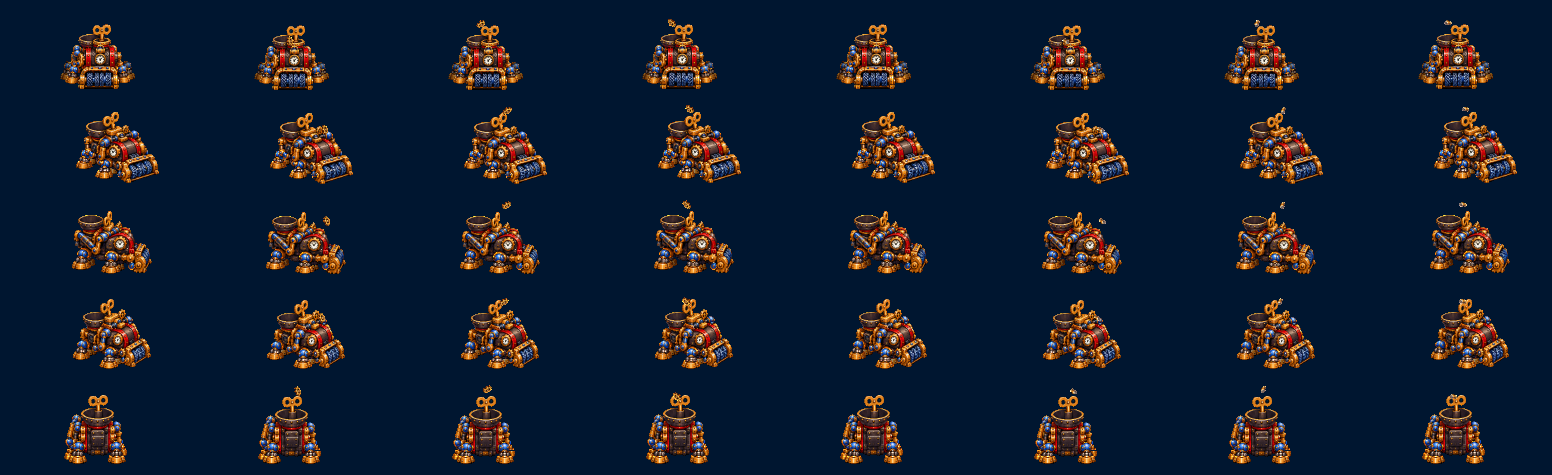
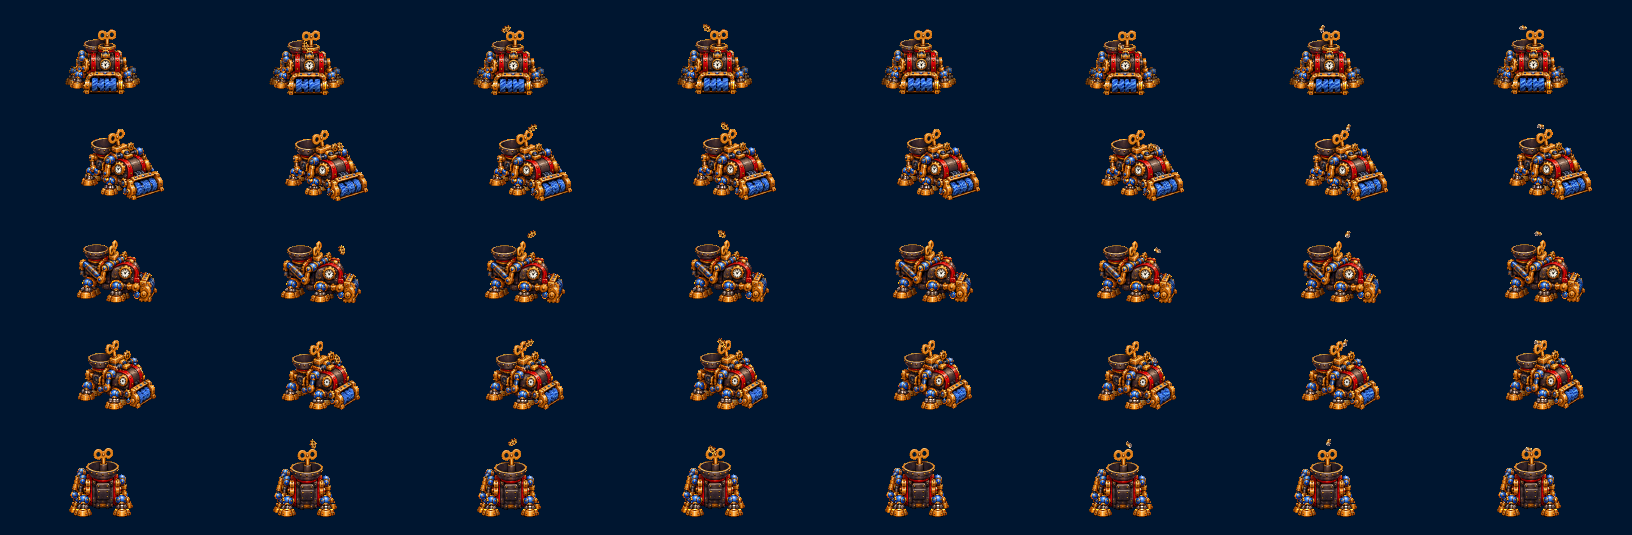
Art: Great Winder WIND turns ChatGPT's painted key, SWEEP scrolls the new roller band and turns the painted end cap
Claude-Session: https://claude.ai/code/session_01NtmEZhP1uA8k4DLQ7BYfMz

diff --git a/tools/great_winder_guide/anim.py b/tools/great_winder_guide/anim.py
@@ -13,13 +13,13 @@ the alternation; the front view gets the middle legs the same way (outside and b
 dips 1 game px as each tripod lands.
 
 WIND (12 frames): the winding arm (cut from column 2 and laid on the column-1 body) slides out of the machine along its
-length (frames 1-3), then the key at its end turns about the arm (frames 3-8: a full turn, 60 deg a frame; seen from
-the side the key's bow narrows to its edge and opens again flipped, seen end-on (S, N) it spins round), then the arm
-slides back in (9-11). Frames 3-8 loop while it winds. N: ChatGPT drew the arm where the big key on top stands, so
+length (frames 0-2), then ChatGPT's painted key head at its end (art/redraws/great_winder_key_rollers_chatgpt.png, top)
+turns about the arm in 8 painted steps of 45 deg (frames 2-9: face-on, 45, edge-on, ... back face), its shaft along
+the arm, then the arm slides back in (10-11). Frames 2-9 loop while it winds. N: ChatGPT drew the arm where the big key on top stands, so
 there it comes out a little to the left of the big key (the S view shows it reaching to the machine's left).
 
-SWEEP (8 frames): the brush rollers turn (the bristle stripes run up round the roller: S and the 3/4 views scroll them
-across the roller, E turns the end-on roller in place); the machine shakes a little. N: the brushes are hidden behind
+SWEEP (8 frames): the brush rollers turn (S and the 3/4 views: each blade shows ChatGPT's new roller band, its stripes
+scrolling up the front; E: the end-on bristles turn in place under the roller's painted end cap, which turns too); the machine shakes a little. N: the brushes are hidden behind
 the machine; it shakes and a few painted scraps (from the concept) are tossed up over it into the hopper.
 
 Out (GAME SCALE, GS game px per sheet px; one cell and anchor for all three, the anchor = the ground under the body):
@@ -36,7 +36,7 @@ SHEET = np.array(Image.open('art/redraws/great_winder_dirs.png').convert('RGB'))
 CONCEPT = np.array(Image.open('art/redraws/concepts/great_winder_v1a.png').convert('RGB')).astype(int)
 GS = 0.30             # game px per sheet px (the Netter is 0.238, the Pendulum 0.283: a big machine)
 DIRS = ['s', 'se', 'e', 'ne', 'n']
-MARGIN = (40, 60, 220, 14)   # render window round the unit's box: left, top, right, bottom (sheet px; the arm reaches)
+MARGIN = (40, 60, 220, 40)   # render window round the unit's box: left, top, right, bottom (sheet px; the arm and its key reach)
 N_WALK = 8
 STEP = 13.0           # a foot travels +-STEP px forward/back of its rest (side view px)
 LIFT = 14.0           # how high a swinging foot lifts
@@ -248,6 +248,80 @@ ARM = [
 ]
 
 
+# ------------------------------------------------------------------ the painted key (WIND)
+
+KEYS_SHEET = np.array(Image.open('art/redraws/great_winder_key_rollers_chatgpt.png').convert('RGB')).astype(int)
+# ChatGPT's key sheet, top: the arm-tip key at four turns (columns: face-on, 45 deg, edge-on, back face; the five rows
+# barely differ, row 1 is used). Only the key's head is taken: the bow and its neck down to the collar over the first
+# blue ball (the arm has its own shaft and balls). Per column: the box (sheet px); the neck's bottom (the anchor) is
+# found on its middle at row KEY_NECK
+KEY_COLS = [(132, 26, 228, 93), (360, 26, 438, 93), (604, 26, 648, 93), (795, 26, 886, 93)]
+KEY_NECK = 92          # the key's neck meets the collar here (sheet px)
+KEY_BOW_W = 62.0       # the bow, face-on, this wide on the machine (sheet px; ChatGPT's is 83): ~19 game px, it reads
+KEY_SINK = 4.0         # the key's neck starts this far back inside the arm's tip (sheet px)
+KEY_TURN = 45.0        # deg a frame while it winds: 8 frames a turn
+# the turn's 8 steps (0, 45 ... 315 deg) -> (column, mirrored about the shaft): face-on, 45, edge-on, 45 seen from the
+# other side, the back face, then the same again (a bow is the same shape after half a turn)
+KEY_STEPS = [(0, False), (1, False), (2, False), (1, True), (3, False), (1, False), (2, False), (1, True)]
+
+
+def key_heads():
+    out = []
+    k = KEY_BOW_W / float(KEY_COLS[0][2] - KEY_COLS[0][0] - 13)
+    for x0, y0, x1, y1 in KEY_COLS:
+        C = KEYS_SHEET[y0:y1, x0:x1]
+        m = solid(C)
+        lab, n = ndi.label(m)
+        if n > 1:
+            sz = ndi.sum(m, lab, range(1, n + 1))
+            m &= lab == int(np.argmax(sz)) + 1
+        xs = np.nonzero(m[KEY_NECK - y0 - 6])[0]
+        ax = (xs.min() + xs.max()) / 2.0
+        im = Image.fromarray(rgba(C, m), 'RGBA')
+        w, h = max(2, int(round(im.width * k))), max(2, int(round(im.height * k)))
+        a = np.array(im.resize((w, h), Image.LANCZOS))
+        a[..., 3] = np.where(a[..., 3] >= 128, 255, 0)
+        a[a[..., 3] == 0] = 0
+        out.append((a, np.array([ax * k, (KEY_NECK - y0) * k])))
+    return out
+
+
+KEY_HEADS = key_heads()
+
+
+def key_step(i):
+    """the key head at turn step i (of 8): (rgba, anchor = the neck's bottom middle); a mirrored step is re-lit with
+    the painting's big light (the blurred brightness ratio), so its light still comes from the top left"""
+    col, mir = KEY_STEPS[i % 8]
+    a, anc = KEY_HEADS[col]
+    if not mir:
+        return a, anc
+    b = a[:, ::-1].copy()
+    m = b[..., 3] > 0
+    lum = lambda x: (x[..., 0] * 0.3 + x[..., 1] * 0.59 + x[..., 2] * 0.11) * m
+    sig = 4.0
+    k = ndi.gaussian_filter(lum(a.astype(float)), sig) / np.maximum(ndi.gaussian_filter(lum(b.astype(float)), sig), 1.0)
+    b[..., :3] = np.clip(b[..., :3] * np.clip(k, 0.7, 1.4)[..., None], 0, 255).astype(np.uint8)
+    b[~m] = 0
+    return b, np.array([a.shape[1] - 1 - anc[0], anc[1]])
+
+
+def key_layer(size, tip, a, i):
+    """the key head at step i laid at the arm's tip, its shaft along the arm (a: root -> tip on screen): turned in the
+    picture plane (rotated paint, NEAREST) so the neck comes out of the tip and the bow stands beyond it"""
+    Wd, H = size
+    img, anc = key_step(i)
+    ang = math.degrees(math.atan2(a[0], -a[1]))           # from 'up' (the paint's shaft) to a, clockwise on screen
+    im = Image.fromarray(img, 'RGBA')
+    pad = int(max(im.size)) + 4
+    big = Image.new('RGBA', (2 * pad, 2 * pad), (0, 0, 0, 0))
+    big.paste(im, (int(round(pad - anc[0])), int(round(pad - anc[1]))), im)
+    big = big.rotate(-ang, resample=Image.NEAREST, center=(pad, pad))
+    out = np.zeros((H, Wd, 4), np.uint8)
+    _paste(out, np.array(big), int(round(tip[0] - pad)), int(round(tip[1] - pad)))
+    return out
+
+
 def seg_dist(xx, yy, a, b):
     vx, vy = b[0] - a[0], b[1] - a[1]
     t = np.clip(((xx - a[0]) * vx + (yy - a[1]) * vy) / float(vx * vx + vy * vy), 0, 1)
@@ -371,6 +445,8 @@ def cut_brush(r, W, M, org):
         # end-on: a disc turning about its middle
         cx, cy = BRUSH[r][2][0] - x0, BRUSH[r][2][1] - y0
         out.update(cx=cx, cy=cy)
+        ys_, xs_ = np.nonzero(bristle)
+        out['R'] = float(np.percentile(np.hypot(xs_ - cx, ys_ - cy), 95))
         # the tufts' angular period round the disc (at two thirds of the radius)
         ys, xs = np.nonzero(bristle)
         ang = np.degrees(np.arctan2(ys - cy, xs - cx))
@@ -388,6 +464,96 @@ def cut_brush(r, W, M, org):
             if c > best[0]:
                 best = (c, float(P))
         out['pitch'] = best[1]
+    return out
+
+
+# the new rollers (ChatGPT's key sheet, bottom: art/redraws/great_winder_key_rollers_chatgpt.png). TREAD_TEX: the side
+# view's bristle band (row 1, column 1), the inside of its blue band (sheet px); each roller blade on the machine
+# (a run of bristles: S and the 3/4 views) gets the band once across its width and scrolls it up its front. CAP: the
+# end-on view (row 1, column 3): the roller's end cap, turned in place over the middle of E's end-on roller
+TREAD_TEX = (154, 926, 177, 980)
+TEX_ZOOM = 3.0         # the band 3x (ChatGPT's stripes are ~5.5 px apart, like the old ones: at 1x they blur to a flat blue)
+TEX_P = 5.5            # its stripes' period down the band (measured: autocorrelation)
+TEX_SPIN = 2.0         # stripes scrolled per 8-frame loop
+CAP_BOX = (588, 909, 670, 1001)
+CAP_K = 0.62           # the cap's radius, of the end-on roller's (the bristles stick out round it)
+CAP_TURN = 90.0        # deg per loop (two of its eight lugs)
+
+
+def roller_pieces():
+    S_ = np.array(Image.open('art/redraws/great_winder_key_rollers_chatgpt.png').convert('RGB')).astype(int)
+    x0, y0, x1, y1 = TREAD_TEX
+    tex = S_[y0:y1, x0:x1].astype(float)
+    x0, y0, x1, y1 = CAP_BOX
+    C = S_[y0:y1, x0:x1]
+    m = solid(C)
+    r_, g_, b_ = C[..., 0], C[..., 1], C[..., 2]
+    blue = m & (b_ > r_ + 40) & (b_ > 100)
+    ys, xs = np.nonzero(blue)
+    cx, cy = xs.mean(), ys.mean()
+    yy, xx = np.mgrid[0:C.shape[0], 0:C.shape[1]]
+    rr = np.hypot(xx - cx, yy - cy)
+    # the cap's own radius: its lugs' tips (the stub over the top, a tuft, is left out)
+    R = float(np.percentile(rr[m], 93))
+    m &= rr <= R
+    return tex, dict(img=rgba(C, m), c=(cx, cy), R=R, hub=blue)
+
+
+TEX, CAP = roller_pieces()
+
+
+def tread_texture(b, i, n):
+    """the bristle runs (S, 3/4 views) painted with TEX: each blade (a connected run of bristles) gets the band once
+    across its width; down a column the band's rows follow the run and scroll up by TEX_SPIN stripes a loop (wrapped
+    a whole number of stripes, so it never jumps); re-lit with the painting's big light (the blade's old brightness
+    over the band's mean)"""
+    m = b['mask']
+    H, Wd = m.shape
+    out = np.zeros((H, Wd, 4), np.uint8)
+    th, tw = TEX.shape[:2]
+    Hw = math.floor((th - 1) / TEX_P) * TEX_P
+    shift = TEX_SPIN * TEX_P * i / float(n)
+    lab, nb = ndi.label(m)
+    tmean = (TEX @ np.array([0.3, 0.59, 0.11])).mean()
+    for k in range(1, nb + 1):
+        ys, xs = np.nonzero(lab == k)
+        if len(ys) < 20:
+            continue
+        x0, x1 = xs.min(), xs.max()
+        for x in np.unique(xs):
+            col = ys[xs == x]
+            col.sort()
+            for run in np.split(col, np.nonzero(np.diff(col) > 1)[0] + 1):
+                L = run[-1] - run[0] + 1
+                ty = ((run - run[0]) * (Hw / max(L, 1)) / TEX_ZOOM + shift) % Hw
+                tx = (x - x0) / max(1.0, x1 - x0) * (tw - 1)
+                rgb = np.stack([ndi.map_coordinates(TEX[..., c], [ty, np.full(len(ty), tx)], order=1)
+                                for c in range(3)], -1)
+                lk = np.clip(b['light'][run, x] / tmean, 0.5, 1.6)
+                out[run, x, :3] = np.clip(rgb * lk[:, None], 0, 255).astype(np.uint8)
+                out[run, x, 3] = 255
+    return out
+
+
+def cap_layer(b, i, n, size):
+    """E: the roller's painted end cap turned in place (CAP_TURN a loop) over the middle of the end-on roller, its hub
+    ball still; only where the roller shows (inside its bristles' outline)"""
+    Wd, H = size
+    R = CAP_K * b['R']
+    k = R / CAP['R']
+    img = Image.fromarray(CAP['img'], 'RGBA')
+    big = img.resize((max(2, int(round(img.width * k))), max(2, int(round(img.height * k)))), Image.LANCZOS)
+    c = (CAP['c'][0] * k, CAP['c'][1] * k)
+    turned = big.rotate(-CAP_TURN * i / float(n), resample=Image.BICUBIC, center=c)
+    a = np.array(turned)
+    still = np.array(big)
+    hub = np.hypot(*(np.mgrid[0:a.shape[0], 0:a.shape[1]][::-1] - np.array(c)[:, None, None])) <= 0.36 * R
+    a[hub] = still[hub]
+    a[..., 3] = np.where(a[..., 3] >= 128, 255, 0)
+    a[a[..., 3] == 0] = 0
+    out = np.zeros((H, Wd, 4), np.uint8)
+    _paste(out, a, int(round(b['cx'] - c[0])), int(round(b['cy'] - c[1])))
+    out[~ndi.binary_dilation(b['mask'], iterations=2)] = 0
     return out
 
 
@@ -537,8 +703,8 @@ def legs_groups(r, q, stand=False):
     return far, near
 
 
-def arm_layers(r, t, phi):
-    """the arm out by t (0 in, 1 all out), its key's bow turned phi deg about the arm"""
+def arm_layers(r, t, step):
+    """the arm out by t (0 in, 1 all out), with ChatGPT's painted key at its tip at turn step `step` (of 8)"""
     P = PARTS[r]
     root, tip = P['root'], P['tip']
     L = float(np.hypot(*(tip - root)))
@@ -546,25 +712,8 @@ def arm_layers(r, t, phi):
     back = -(1.0 - t) * (L + 30.0) * a
     H, Wd = P['arm'].shape[:2]
     yy, xx = np.mgrid[0:H, 0:Wd]
-    arm = shift(P['arm'], *back)
-    bow = P['bow']
-    ph = math.radians(phi)
-    if ARM[r]['front'] or r == 4:
-        # seen end-on (S, N): the bow spins round the shaft's end
-        c, s_ = math.cos(ph), math.sin(ph)
-        bow = place(bow, tip, tip, np.array([[c, -s_], [s_, c]]))
-    else:
-        # seen from the side: the bow narrows to its edge and opens again, flipped
-        n = np.array([-a[1], a[0]])
-        Mb = np.eye(2) + (math.cos(ph) - 1.0) * np.outer(n, n)
-        if abs(math.cos(ph)) < 0.12:
-            Mb = np.eye(2) + (0.12 * (1 if math.cos(ph) >= 0 else -1) - 1.0) * np.outer(n, n)
-        bow = place(bow, tip, tip, Mb)
-        if math.cos(ph) < 0:
-            bow = shade(bow, 0.8)        # (its far face, in its own shade)
-    bow = shift(bow, *back)
-    out = arm.copy()
-    over(out, bow)
+    out = shift(P['arm'], *back)
+    over(out, key_layer((Wd, H), tip + back - KEY_SINK * a, a, step))
     # hidden inside the machine: anything behind the root along the arm
     inside = ((xx - root[0]) * a[0] + (yy - root[1]) * a[1]) < 0
     out[inside] = 0
@@ -577,9 +726,9 @@ def walk_frame(r, i):
     return far + [(PARTS[r]['body'], True)] + near
 
 
-def wind_frame(r, t, phi):
+def wind_frame(r, t, step):
     far, near = legs_groups(r, 0.0, stand=True)
-    arm = arm_layers(r, t, phi)
+    arm = arm_layers(r, t, step)
     if ARM[r]['front']:
         return far + [(PARTS[r]['body'], True)] + near + [(arm, True)]
     return far + [(arm, True), (PARTS[r]['body'], True)] + near
@@ -590,13 +739,20 @@ def sweep_frame(r, i):
     g = far + [(PARTS[r]['body'], True)]
     b = PARTS[r]['brush']
     if b is not None:
-        g.append((roll_brush(b, i, N_SWEEP), True))
+        if b['kind'] == 'tread':
+            g.append((tread_texture(b, i, N_SWEEP), True))
+        else:
+            # (E: the bristles round it turn at their painted size, BRUSH_ZOOM is for the old treads only)
+            g.append((roll_brush(b, i, N_SWEEP), True))
+            g.append((cap_layer(b, i, N_SWEEP, PARTS[r]['size']), True))
     return g + near + [(scraps_layer(r, i, N_SWEEP, PARTS[r]['size']), False)]
 
 
 N_SWEEP = 8
-WIND = [(0.0, 0.0), (0.4, 0.0), (0.8, 0.0), (1.0, 0.0), (1.0, 60.0), (1.0, 120.0), (1.0, 180.0), (1.0, 240.0),
-        (1.0, 300.0), (0.75, 0.0), (0.4, 0.0), (0.1, 0.0)]
+# WIND: (how far out, the key's turn step): out in 2 frames, a full turn in 8 (frames 2-9 loop while it winds), back
+# in 2
+WIND = [(0.0, 0), (0.55, 0), (1.0, 0), (1.0, 1), (1.0, 2), (1.0, 3), (1.0, 4), (1.0, 5), (1.0, 6), (1.0, 7),
+        (0.6, 0), (0.2, 0)]
 WALK_BOB = [1, 0, 0, 0, 1, 0, 0, 0]        # the body dips as each tripod lands (game px)
 SWEEP_BOB = [0, 1, 1, 0, 0, 1, 1, 0]       # it rumbles with the brushes
 

diff --git a/docs/art_style_inconsistency.md b/docs/art_style_inconsistency.md
@@ -152,3 +152,4 @@ Update (v7): the spring comes out along the building's facing, diagonally down a
 - tools/great_winder_guide/anim.py: the Great Winder's WALK (art/redraws/great_winder_walk.png/.gif, 5x8), WIND (great_winder_wind.png/.gif, 5x12) and SWEEP (great_winder_sweep.png/.gif, 5x8), built in code from ChatGPT's direction sheet (art/redraws/great_winder_dirs.png) at game scale (0.30). WALK: a tripod gait; each painted leg is cut into its blue ball (rides with the body), steel collar (SHEARED after the foot) and brass foot (lifted and moved); the far side's legs are NOT painted on the sheet: they are DARKER COPIES of the near legs drawn behind the body (like the Pendulum's far leg); in N the side legs' feet, half hidden behind the back legs, are completed with their own other half MIRRORED; in the side views the front legs show only their ball, which lifts. The body dips 1 px as each tripod lands.
 - Great Winder WIND: the winding arm is cut from the sheet's second column and laid on the first (N: ChatGPT drew it where the big key stands, so it is placed by hand a little left of the big key); it slides out along its length; the key at its end turns a full turn about the arm in 60-degree steps: in the side and 3/4 views its bow is SQUASHED across the arm (cos of the turn) and darkened 20% while its far face shows (CODE SHADE), in S/N it is spun in the picture plane (rotated paint).
 - Great Winder SWEEP: the brush rollers' painted stripes are 5 sheet px apart (1.5 game px: too fine to see move), so they are shown 2x COARSER (the painted bristles magnified, NEAREST, re-lit with the painting's light) and scrolled up the roller's front (S and the 3/4 views); E: the end-on roller is turned in place. Two painted scraps from the concept (art/redraws/concepts/great_winder_v1b.png: a cog and a brass-and-steel piece, enlarged ~2x so they read) are thrown on a code arc from the brush into the hopper (N: from behind the machine down into it). The body rumbles 1 px.
+- Great Winder parts pass (2026-10-26, branch cw-anim-parts; docs/cw_anim_parts.md): WIND's key is ChatGPT's painted key head (art/redraws/great_winder_key_rollers_chatgpt.png, top row 1: the bow and its neck down to the collar), scaled to a 62 px bow (~19 game px), ROTATED in the picture plane (NEAREST) so its shaft lies along the arm and set at the arm's tip; the turn is 8 painted steps (face-on, 45, edge-on, 45 MIRRORED about the shaft (CODE EDIT, re-lit with the painting's big light: CODE SHADE), back face, and again): out 2 frames, 8 turning (frames 2-9 loop), in 2. SWEEP: S and the 3/4 views' bristles are ChatGPT's new roller band (bottom, row 1 column 1, the blue band), laid once across each roller blade and scrolled up its front 2 stripes a loop; MAGNIFIED 3x (its stripes are 5.5 px apart, as fine as the old ones: at 1x they blur to a flat blue), re-lit with the old painting's light (CODE SHADE). E: the end-on roller's painted END CAP (bottom, row 1 column 3, without the stub over its top) turns 90 deg a loop over the middle of the old end-on bristles (which still turn at their painted size), its hub ball still, clipped to the roller's outline. The cell grew to 204x107 (anchor 102, 89) for the bigger key; WALK was not regenerated (it waits for the owner's leg sheet) and keeps the old 194x95 cell.
